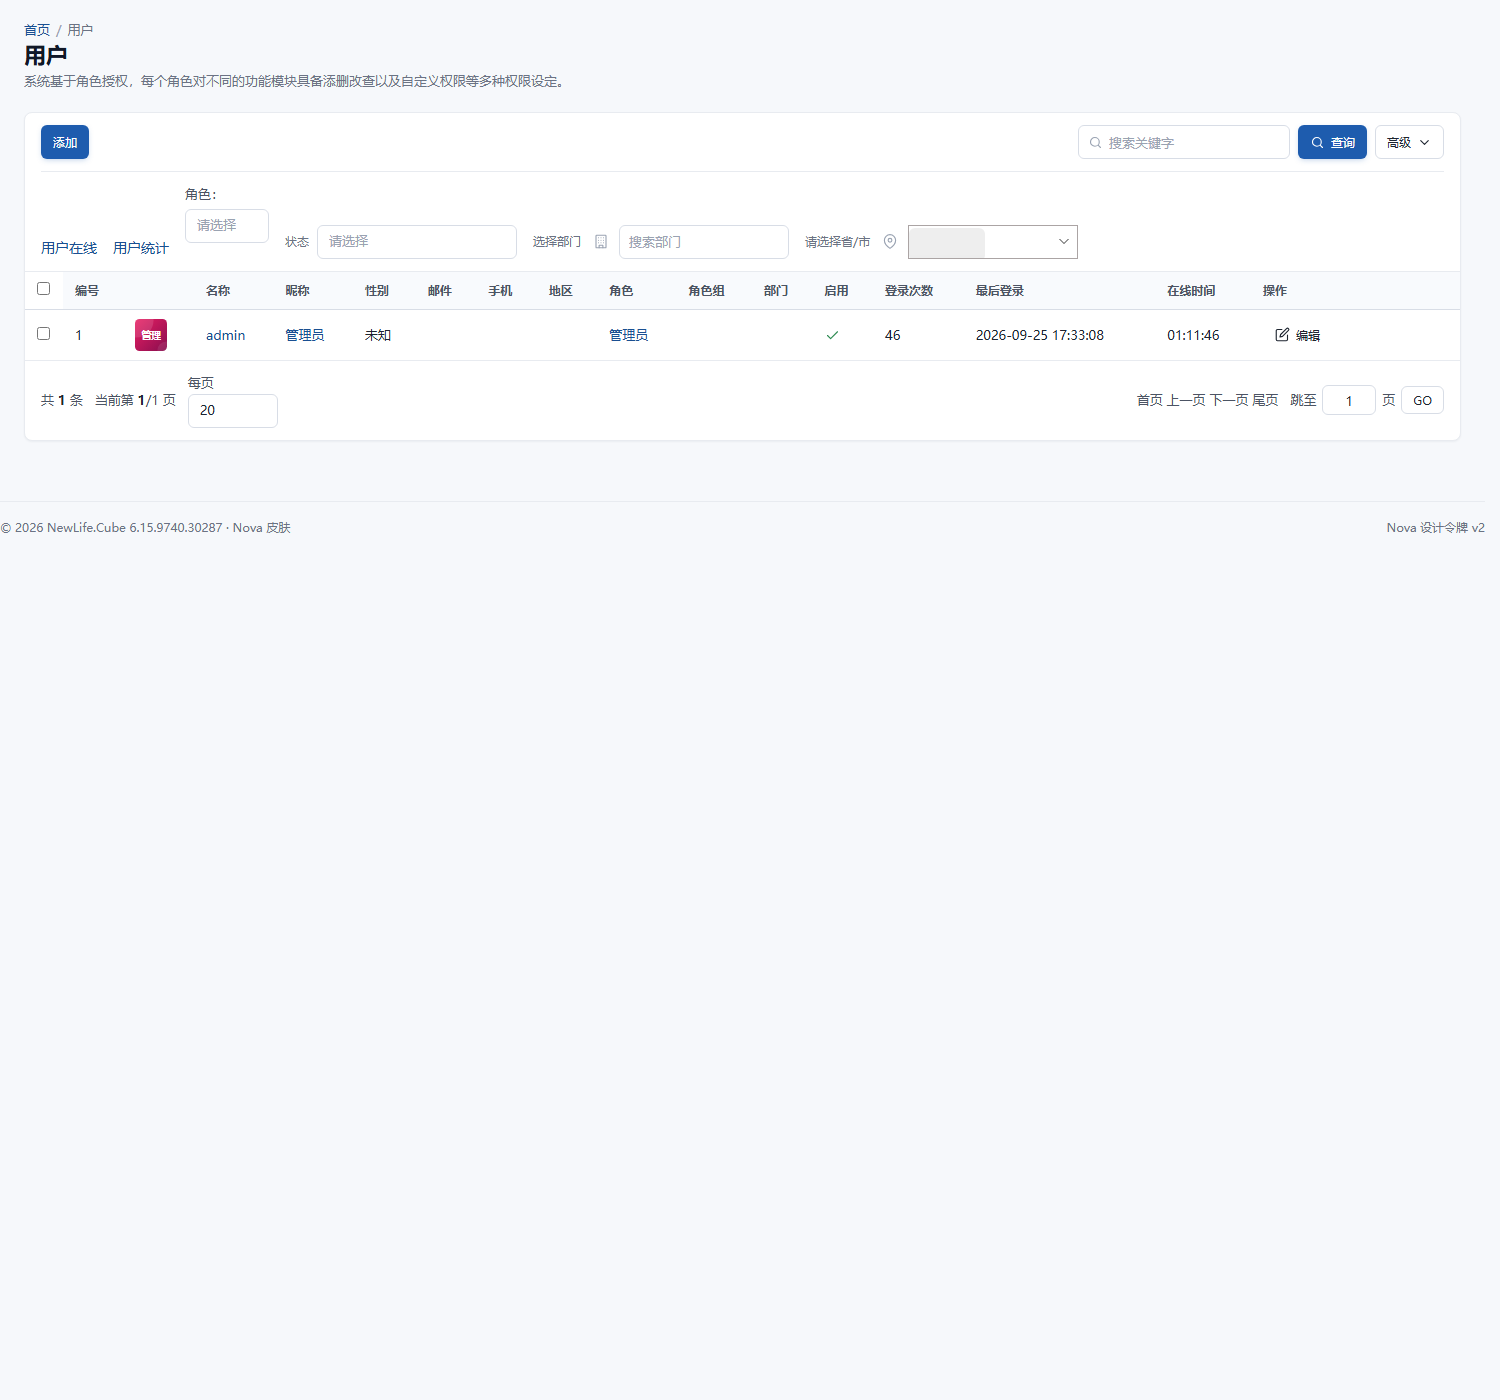
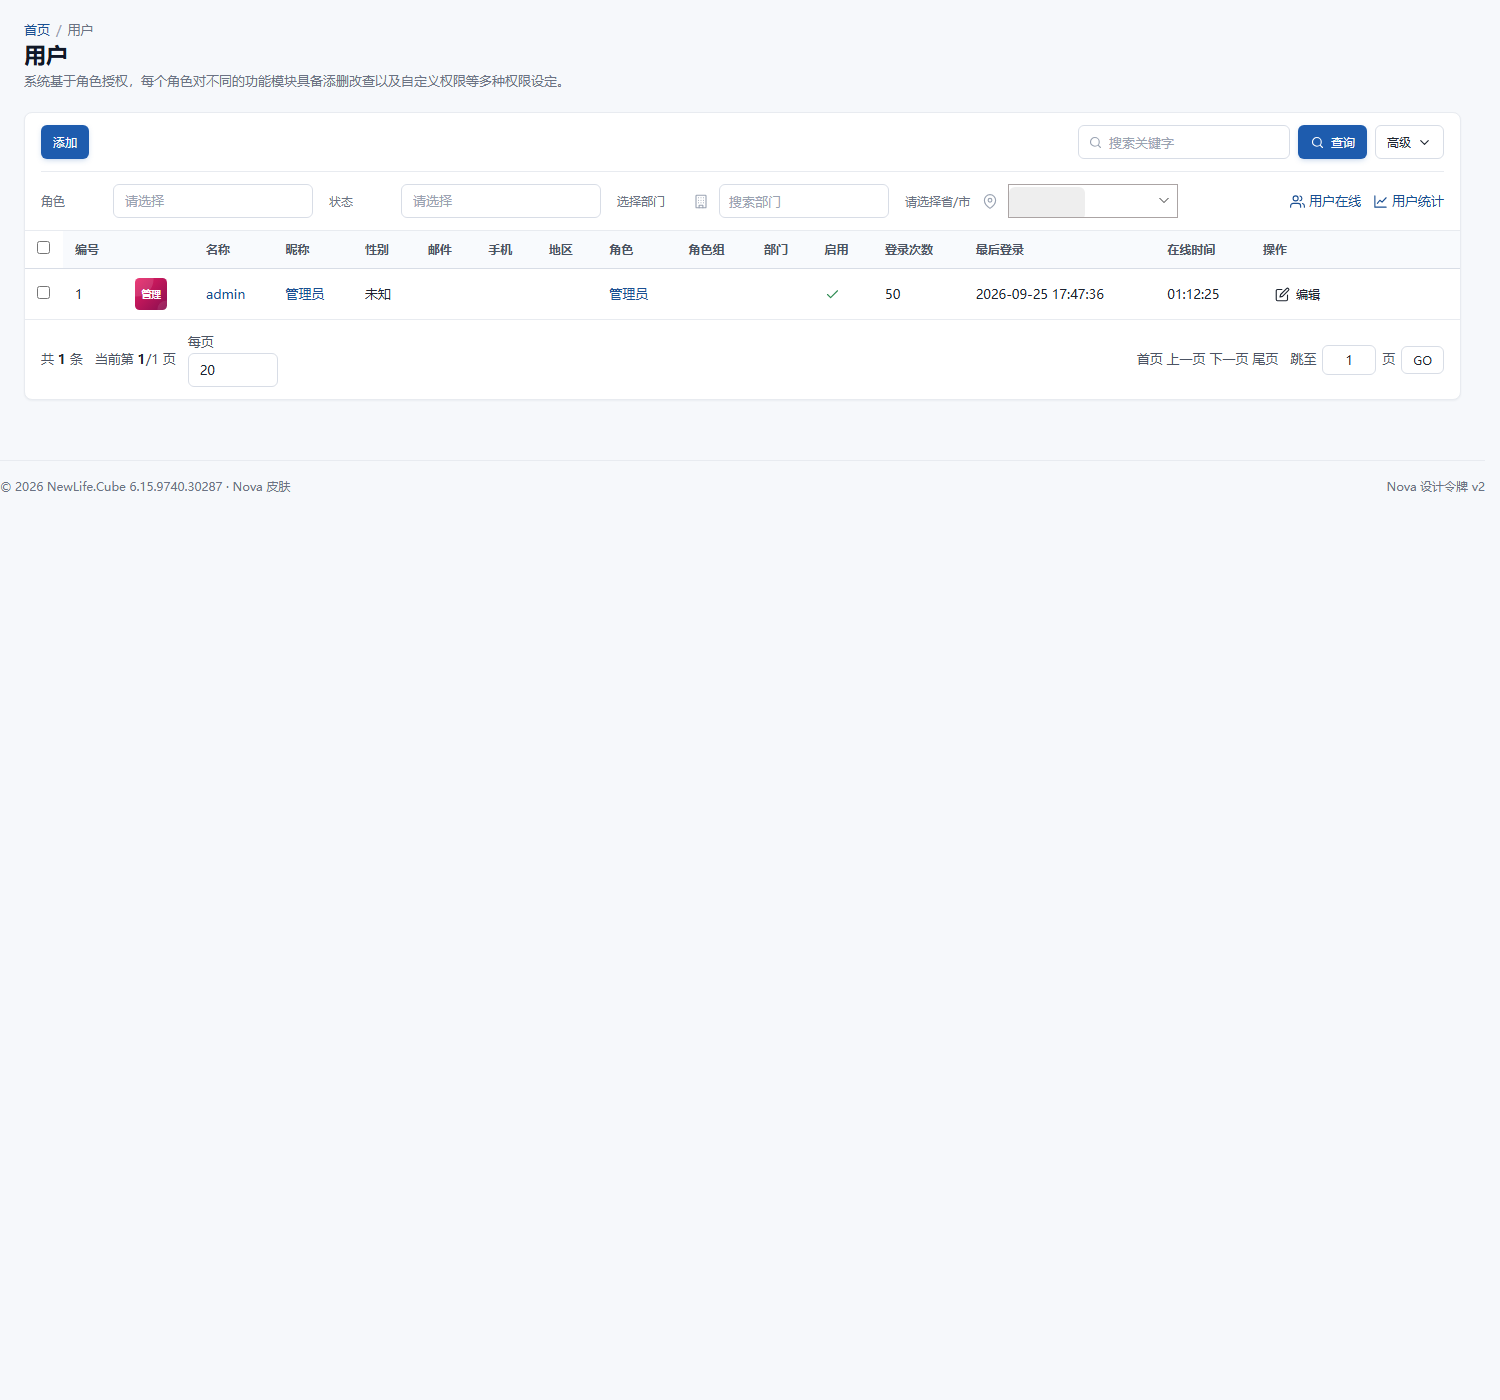
重排用户列表搜索栏：Nova 覆写自定义搜索视图，筛选区统一栅格
问题：用户列表筛选行混入 Cube 原版（ACE 时代）自定义搜索视图的裸标记
——toolbar-link 纯文本链接、form-group/control-label 原始表单组，
在 Nova 筛选行完全失序；标签无固定宽、控件宽细不一、链接与字段混排。

修复：
1. 新增 Areas/Admin/Views/User_Nova/_List_Search.cshtml 主题覆写
   （Cube 主题视图定位机制 User_Nova），全部改用 .nv-field 栅格：
   角色多选 / 状态 / 选择部门 / 省市 与框架字段同构；
   用户在线/用户统计改为带图标的弱强调链接，右置于筛选行末尾。
2. CSS：筛选行标签定宽 64px 右对齐，标签列纵向整齐；控件槽保持
   200px 定宽；新增 .nv-search-links/.nv-search-link；
   另加 ACE 遗留标记（toolbar-link/form-group/control-label）安全网，
   其它实体的旧自定义搜索视图不再崩坏，逐步由主题覆写替换。

验证：verify-demo.ps1 35 项全部 PASS；runtime-searchbar.png 截图确认
排版整齐、与原型工具栏风格一致；确认旧标记零残留。

diff --git a/wwwroot/Content/nova/nova-ui.css b/wwwroot/Content/nova/nova-ui.css
@@ -2302,6 +2302,22 @@ body.nv .nv-tabs-host .nav-tabs .nav-link:focus-visible {
  flex:0 0 auto; width:126px; text-align:center; }
 .nv-toolbar .nv-daterange-sep {
  color:var(--nv-text-4); }
+/* L2b. 筛选行标签定宽右对齐，标签列纵向整齐（生产排版） */
+.nv-toolbar .nv-field-label {
+ flex:0 0 64px; text-align:right; }
+/* 筛选行末尾的弱强调辅助入口（用户在线/用户统计等）：右置、与字段底对齐 */
+.nv-toolbar .nv-search-links {
+ display:inline-flex; align-items:center; gap:var(--nv-sp-3); margin-left:auto; align-self:center; }
+.nv-search-link {
+ display:inline-flex; align-items:center; gap:4px; font-size:var(--nv-fs-13); color:var(--nv-text-link); text-decoration:none; }
+.nv-search-link:hover { text-decoration:underline; }
+/* 其它实体自定义搜索视图的 ACE 遗留标记安全网：不致排版崩坏，逐步由主题覆写替换 */
+.nv-toolbar-filters .toolbar-link {
+ font-size:var(--nv-fs-13); color:var(--nv-text-link); text-decoration:none; }
+.nv-toolbar-filters .form-group {
+ display:flex; align-items:center; gap:var(--nv-sp-2); margin:0; }
+.nv-toolbar-filters .form-group .control-label {
+ margin:0; font-size:var(--nv-fs-12); color:var(--nv-text-3); white-space:nowrap; flex:0 0 64px; text-align:right; }
 /* M. 生产级优化补充：文件隐藏输入 / 行内复选框 / 危险链接 / 权限树表 */.nv-file-hidden {
  position:absolute !important; width:1px; height:1px; padding:0; margin:-1px;
  overflow:hidden; clip:rect(0,0,0,0); border:0; white-space:nowrap; }
